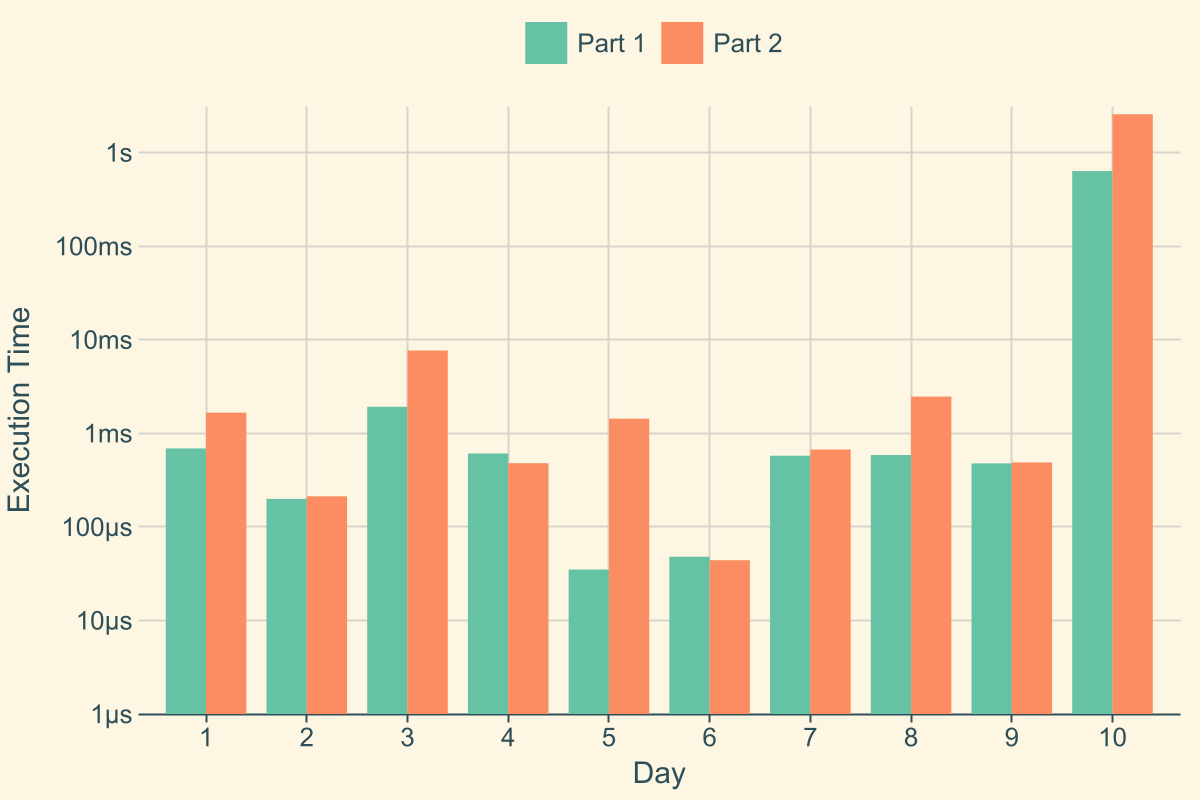
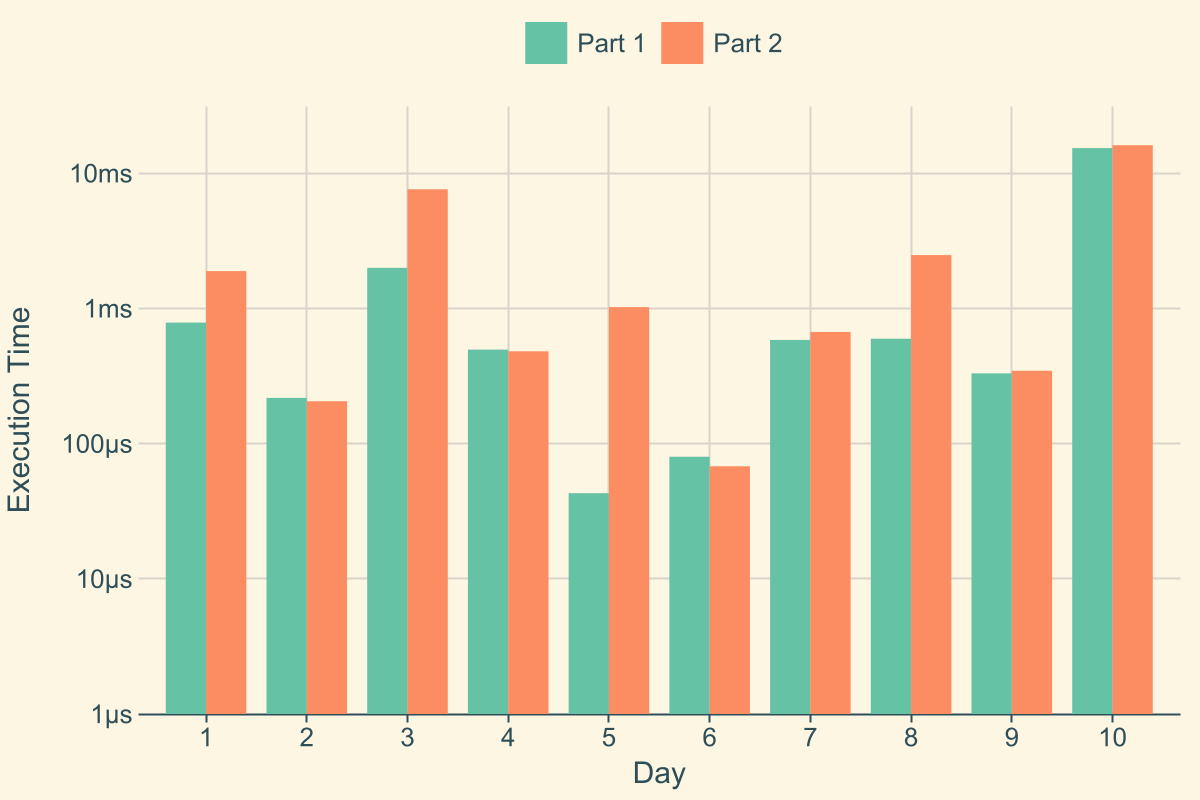
10 refactoring

diff --git a/src/day10.rs b/src/day10.rs
@@ -1,5 +1,5 @@
-use std::collections::{HashSet, VecDeque};
-use std::fmt::{Display, Formatter};
+use std::collections::{HashMap, HashSet, VecDeque};
+use std::fmt::Display;
 use std::ops::{Add, Sub};
 
 use crate::harness::{Day, Part};
@@ -31,9 +31,8 @@ impl Part<i32> for Part1 {
 
             closed.insert(position);
 
-            map.connections.iter()
-                .filter(|(from, _)| *from == position)
-                .map(|(_, to)| *to)
+            map.connections_map[&position].iter()
+                .cloned()
                 .filter(|to| !closed.contains(to))
                 .map(|to| (dist_from_start + 1, to))
                 .for_each(|next| {
@@ -63,7 +62,7 @@ impl Part<i32> for Part2 {
         let mut closed = HashSet::new();
         closed.insert(map.start);
 
-        while let Some((_, next)) = map.connections.iter().filter(|(from, to)| !closed.contains(to)).find(|(from, to)| from == polygon.last().unwrap()) {
+        while let Some(next) = map.connections_map[polygon.last().unwrap()].iter().find(|to| !closed.contains(to)) {
             if *next == map.start {
                 break;
             }
@@ -100,28 +99,29 @@ impl Part<i32> for Part2 {
         polygon.push(polygon[0]);
         polygon.push(polygon[1]);
 
-        let trimmings: f64 = polygon.windows(3).map(|x| {
-            let from_direction = x[0] - x[1];
-            let to_direction = x[2] - x[1];
+        let trimmings: f64 = polygon.windows(3)
+            .map(|x| {
+                let from_direction = x[0] - x[1];
+                let to_direction = x[2] - x[1];
 
+                match (from_direction, to_direction) {
+                    (Vec2::NORTH, Vec2::SOUTH) |
+                    (Vec2::SOUTH, Vec2::NORTH) |
+                    (Vec2::EAST, Vec2::WEST) |
+                    (Vec2::WEST, Vec2::EAST) => 0.5,
+                    (Vec2::WEST, Vec2::SOUTH) |
+                    (Vec2::NORTH, Vec2::WEST) |
+                    (Vec2::EAST, Vec2::NORTH) |
+                    (Vec2::SOUTH, Vec2::EAST) => 0.25,
+                    (Vec2::WEST, Vec2::NORTH) |
+                    (Vec2::NORTH, Vec2::EAST) |
+                    (Vec2::EAST, Vec2::SOUTH) |
+                    (Vec2::SOUTH, Vec2::WEST) => 0.75,
 
-            match (from_direction, to_direction) {
-                (Vec2::NORTH, Vec2::SOUTH) |
-                (Vec2::SOUTH, Vec2::NORTH) |
-                (Vec2::EAST, Vec2::WEST) |
-                (Vec2::WEST, Vec2::EAST) => 0.5,
-                (Vec2::WEST, Vec2::SOUTH) |
-                (Vec2::NORTH, Vec2::WEST) |
-                (Vec2::EAST, Vec2::NORTH) |
-                (Vec2::SOUTH, Vec2::EAST) => 0.25,
-                (Vec2::WEST, Vec2::NORTH) |
-                (Vec2::NORTH, Vec2::EAST) |
-                (Vec2::EAST, Vec2::SOUTH) |
-                (Vec2::SOUTH, Vec2::WEST) => 0.75,
-
-                _ => panic!(),
-            }
-        }).sum();
+                    _ => panic!(),
+                }
+            })
+            .sum();
 
         let x1 = area as f64 - trimmings;
 
@@ -131,63 +131,44 @@ impl Part<i32> for Part2 {
 
 struct Map {
     start: Vec2,
-    connections: Vec<(Vec2, Vec2)>,
+    connections_map: HashMap<Vec2, Vec<Vec2>>,
 }
 
 impl Map {
-    fn new(start: Vec2, connections: Vec<(Vec2, Vec2)>) -> Self {
-        Self { start, connections }
+    pub fn new(start: Vec2, connections2: HashMap<Vec2, Vec<Vec2>>) -> Self {
+        Self { start, connections_map: connections2 }
+    }
+
+    fn num_edges(&self) -> usize {
+        self.connections_map.values().map(Vec::len).sum()
     }
 
     fn cull_connections(&mut self) {
         loop {
-            let previous_size = self.connections.len();
+            let previous_size = self.num_edges();
 
-            self.connections =
-                self.connections.clone().into_iter()
-                    .filter(|(from, to)|
-                        self.connections.iter()
-                            .any(|(other_from, other_to)| to == other_from && from == other_to)
-                    )
-                    .collect::<Vec<_>>();
+            self.connections_map =
+                self.connections_map.clone().into_iter()
+                    .map(|(from, tos)| (
+                        from,
+                        tos.into_iter()
+                            .filter(|to|
+                                self.connections_map[&from].contains(to) &&
+                                    self.connections_map.get(to).map(|l| l.contains(&from)).unwrap_or(false)
+                            )
+                            .collect()
+                    ))
+                    .collect();
 
-            if self.connections.len() == previous_size {
+            if self.num_edges() == previous_size {
                 break;
             }
         }
     }
 }
 
-impl Display for Map {
-    fn fmt(&self, f: &mut Formatter<'_>) -> std::fmt::Result {
-        let vec1 = self.connections.iter().flat_map(|e| vec![e.0, e.1]).collect::<HashSet<_>>();
-
-        let min_x = vec1.iter().map(|p| p.x).min().unwrap();
-        let min_y = vec1.iter().map(|p| p.y).min().unwrap();
-        let max_x = vec1.iter().map(|p| p.x).max().unwrap();
-        let max_y = vec1.iter().map(|p| p.y).max().unwrap();
-
-        let min = v(min_x, min_y);
-        let max = v(max_x, max_y);
-
-        // let width = max_x - min_x;
-
-        todo!()
-    }
-}
-
 impl From<&[String]> for Map {
     fn from(value: &[String]) -> Self {
-        let connections = value.iter()
-            .filter(|l| !l.is_empty())
-            .enumerate()
-            .flat_map(|(y, s)|
-                s.chars().enumerate().flat_map(move |(x, c)| {
-                    let p = v(x as i32, y as i32);
-                    neighbours(c).into_iter().map(move |n| (p, n + p))
-                })
-            ).collect::<Vec<_>>();
-
         let start = value.iter()
             .enumerate()
             .find_map(|(y, l)| l.chars().enumerate().find_map(|(x, c)| {
@@ -199,7 +180,23 @@ impl From<&[String]> for Map {
             }))
             .unwrap();
 
-        Map::new(start, connections)
+        let connections_map =
+            value.iter()
+                .filter(|l| !l.is_empty())
+                .enumerate()
+                .flat_map(|(y, s)|
+                    s.chars().enumerate()
+                        .flat_map(move |(x, c)| {
+                            let p = v(x as i32, y as i32);
+                            neighbours(c).into_iter().map(move |n| (p, n + p))
+                        })
+                )
+                .fold(HashMap::<Vec2, Vec<Vec2>>::new(), |mut acc, e| {
+                    acc.entry(e.0).or_insert_with(Vec::new).push(e.1);
+                    acc
+                });
+
+        Map::new(start, connections_map)
     }
 }
 
